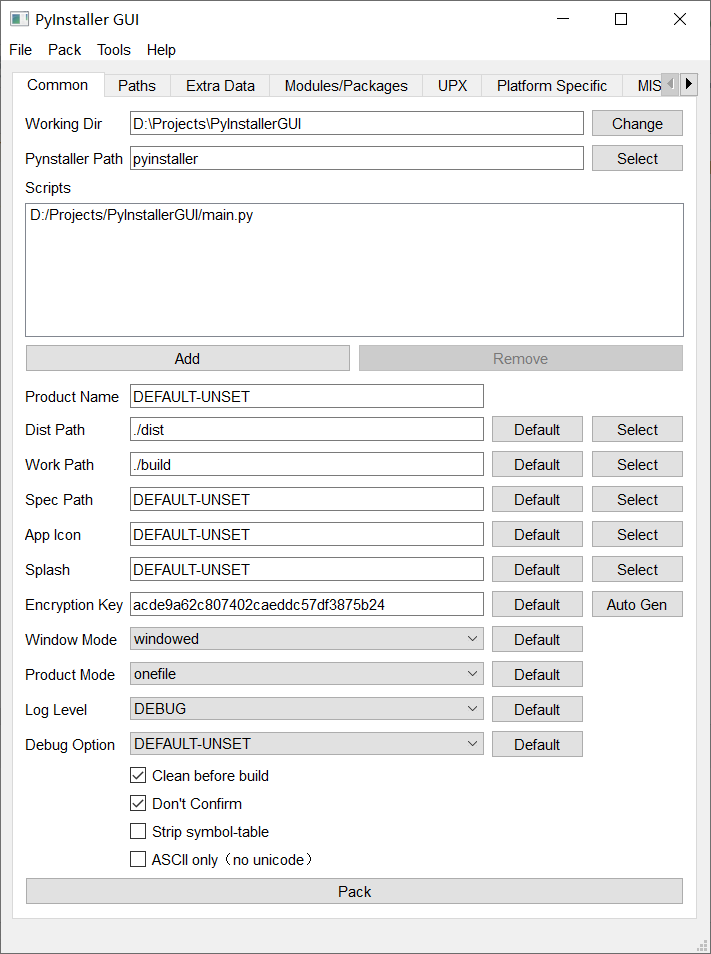
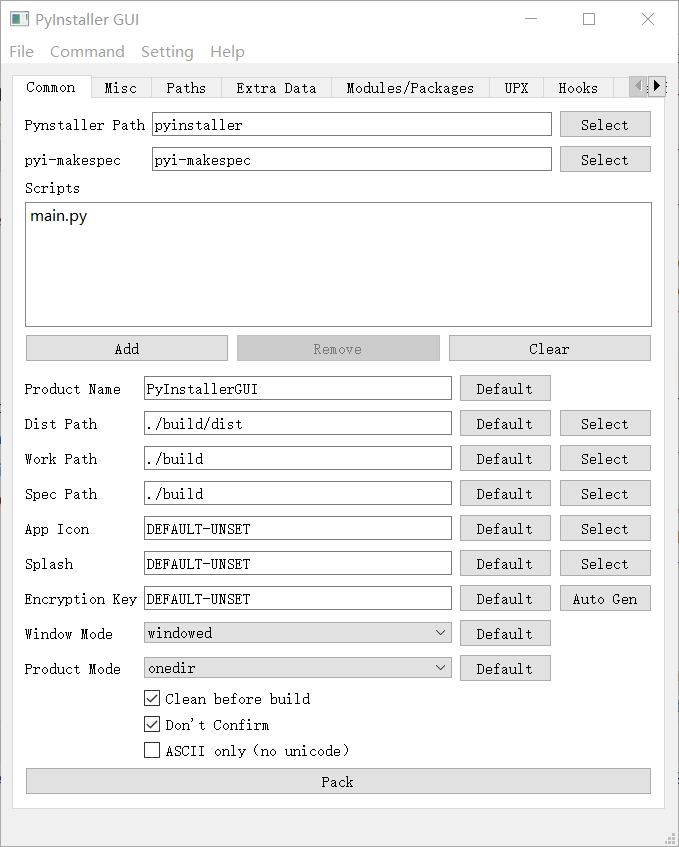
更新截图

diff --git a/README.md b/README.md
@@ -11,11 +11,21 @@
 ![avatar](./screenshots/ss-main.PNG)
 
 
-2.添加额外数据界面
+2.添加HiddenImports、ExcludeModules...等界面
 
-![avatar](./screenshots/ss-add-data.PNG)
+![avatar](./screenshots/ss-modules.PNG)
 
 
 3.开始打包界面
 
 ![avatar](./screenshots/ss-start-pack.PNG)
+
+
+4.生成目录
+
+![avatar](D:\Projects\PyInstallerGUI\screenshots\ss-build.png)
+
+
+4.最终产品目录
+
+![avatar](D:\Projects\PyInstallerGUI\screenshots\ss-dist.PNG)
